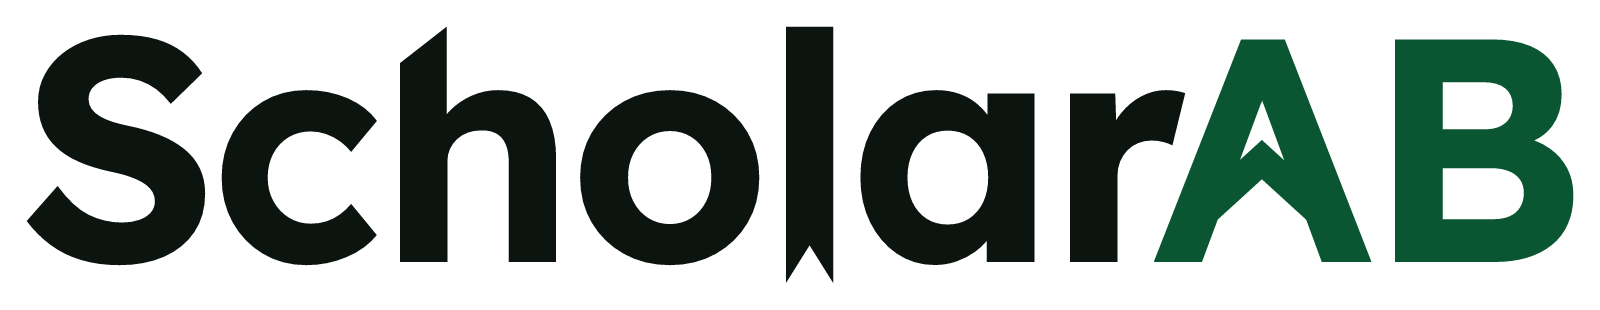
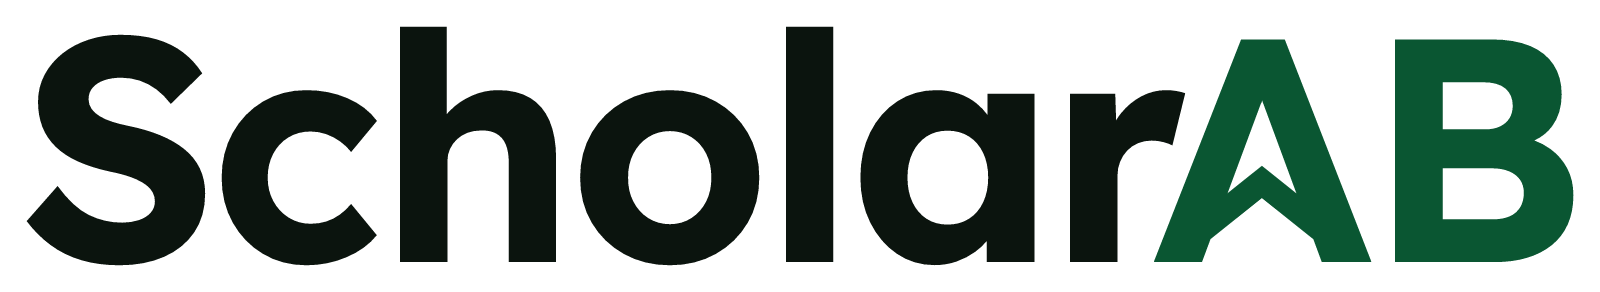
Bug fixes, minor improvements, and more.

diff --git a/scripts/generate-og-images.ts b/scripts/generate-og-images.ts
@@ -77,7 +77,7 @@ function card(s: Scholarship) {
     ]),
     el('div', { display: 'flex', justifyContent: 'space-between', alignItems: 'center', borderTop: '1px solid rgba(238,241,236,0.2)', paddingTop: 28 }, [
       // The logo itself, not the name typed in a font (2026-10-07).
-      { type: 'img', props: { src: LOGO, width: 190, height: 40 } },
+      { type: 'img', props: { src: LOGO, width: 199, height: 40 } },
       el('div', { fontFamily: 'Big Shoulders Label', fontWeight: 700, fontSize: 20, letterSpacing: 1.5, color: 'rgba(238,241,236,0.6)' }, 'FIND YOUR SCHOLARSHIP · SCHOLARAB.CA'),
     ]),
   ]);

diff --git a/docs/simplification.md b/docs/simplification.md
@@ -2030,3 +2030,16 @@ Outcome: the footer signs off with a logo a visitor can read, as the header now 
 | Footer logo 36 px tall (171 px wide) | 48 px tall (228 px wide) at every width; 20 px under it instead of 16. |
 
 Repair attempts: none. Add-back fraction: 0/0 (nothing removed). Local only, built site at 320, 390 and 1400 wide: 228 by 48 px, no horizontal overflow. `npm run ci` passed (1,215 tests); E2E 165 passed, 0 failed.
+
+## Calmer logo, October 7, 2026
+
+Outcome: the logo reads as one idea (the mountain in the A) instead of several competing tricks. Ilia said it looked generic and that the mountain sat too close to the top of the A, leaving too little space inside.
+
+| Candidate | Result and retained requirement |
+| --- | --- |
+| Bookmark l hanging below the line | Removed: plain Lexend l. The logo is now one line tall, so at the same height the letters are larger. |
+| Sloped top on the h | Removed: plain Lexend h. |
+| Mountain peak at 46% of the cap height, full-weight chevron | Lowered to 36% with a chevron 82% as thick; the space above the peak about doubles and stays open at header size. |
+| Logo widths in the header, footer and share cards | Kept heights; widths follow the new proportions (179, 150, 130, 159, 239 and 199 px). |
+
+Repair attempts: none. Add-back fraction: 0/2 (neither letter trick returned). Local only, built site at 320, 390, 901, 1000, 1101 and 1400 wide: no horizontal overflow; the smallest gap from the logo to the first menu item is 30 px at 901. `npm run ci` passed (1,215 tests); E2E 165 passed, 0 failed.
